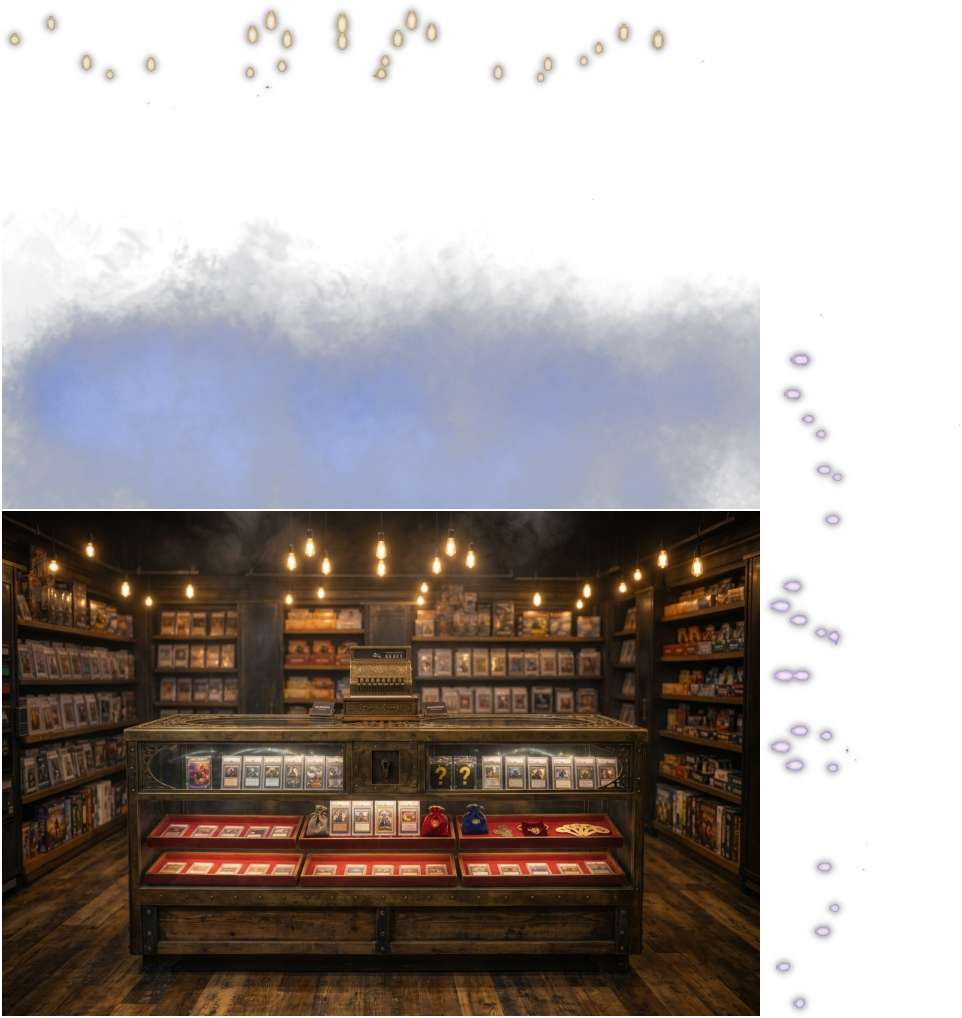
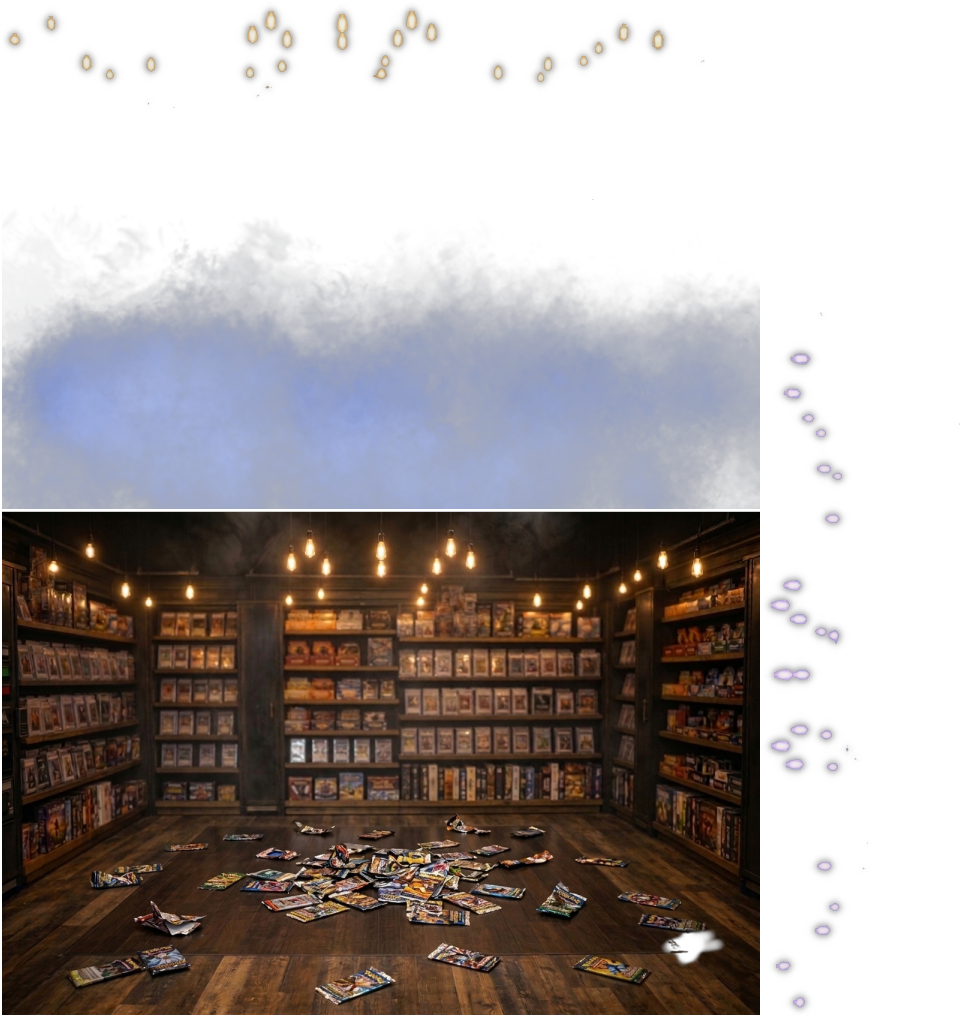
fix: frame shadow and new BG

diff --git a/apps/card-ways/src/game/visualLayoutConfig.ts b/apps/card-ways/src/game/visualLayoutConfig.ts
@@ -315,25 +315,25 @@ export const VISUAL_LAYOUT = {
 				symbolScale: 1.18,
 				boardXOffset: 0,
 				boardYOffset: -50,
-				frame: { offsetX: 4, offsetY: 10, width: 900, height: 855 },
+				frame: { offsetX: 24, offsetY: 80, width: 1185, height: 1014 },
 			},
 			landscape: {
 				symbolScale: 1.18,
 				boardXOffset: 0,
 				boardYOffset: -10,
-				frame: { offsetX: 8, offsetY: 4, width: 890, height: 850 },
+				frame: { offsetX: 24, offsetY: 80, width: 1185, height: 1014},
 			},
 			portrait: {
 				symbolScale: 1.18,
 				boardXOffset: -8,
-				boardYOffset: -100,
-				frame: { offsetX: 8, offsetY: 10, width: 890, height: 844 },
+				boardYOffset: 0,
+				frame: { offsetX: 24, offsetY: 80, width: 1185, height: 1014},
 			},
 			tablet: {
 				symbolScale: 1.09,
 				boardXOffset: 0,
 				boardYOffset: -50,
-				frame: { offsetX: 4, offsetY: 10, width: 842, height: 800 },
+				frame: { offsetX: 22, offsetY: 74, width: 1090, height: 933 },
 			},
 		} satisfies Record<LayoutType, LayoutBoardSettings>,
 	},

diff --git a/apps/card-ways/src/game/assets.ts b/apps/card-ways/src/game/assets.ts
@@ -39,7 +39,7 @@ export default {
 	},
 	reelsFrame: {
 		type: 'sprite',
-		src: new URL('../../assets/sprites/reelsFrame/VENDING-FRAME-LOGO.png', import.meta.url).href,
+		src: new URL('../../assets/sprites/reelsFrame/VENDING-FRAME-LOGO-SHADOW.png', import.meta.url).href,
 	},
 	slab: {
 		type: 'spine',

diff --git a/apps/card-ways/assets/sprites/reelsFrame/index.ts b/apps/card-ways/assets/sprites/reelsFrame/index.ts
@@ -1,5 +1,5 @@
 import { createAsset } from 'pixi-svelte';
 
-import img from './VENDING-FRAME-LOGO.png';
+import img from './VENDING-FRAME-LOGO-SHADOW.png';
 
 export default createAsset({ img });

diff --git a/apps/card-ways/static/assets/sprites/reelsFrame/index.ts b/apps/card-ways/static/assets/sprites/reelsFrame/index.ts
@@ -1,5 +1,5 @@
 import { createAsset } from 'pixi-svelte';
 
-import img from './VENDING-FRAME-LOGO.png';
+import img from './VENDING-FRAME-LOGO-SHADOW.png';
 
 export default createAsset({ img });
